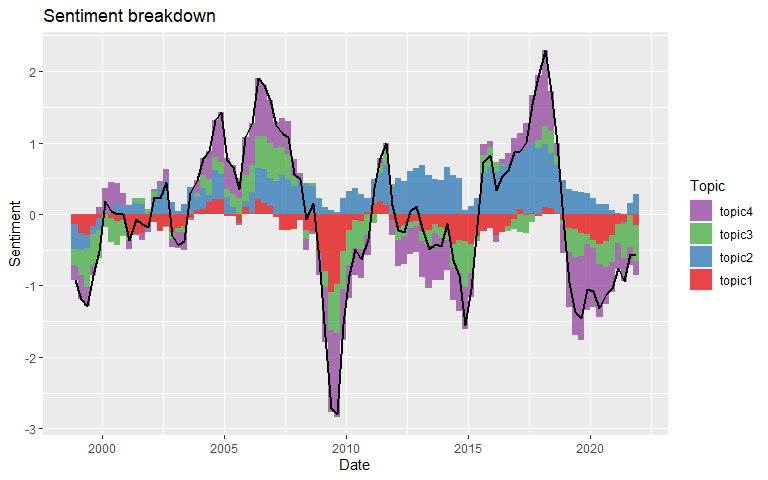
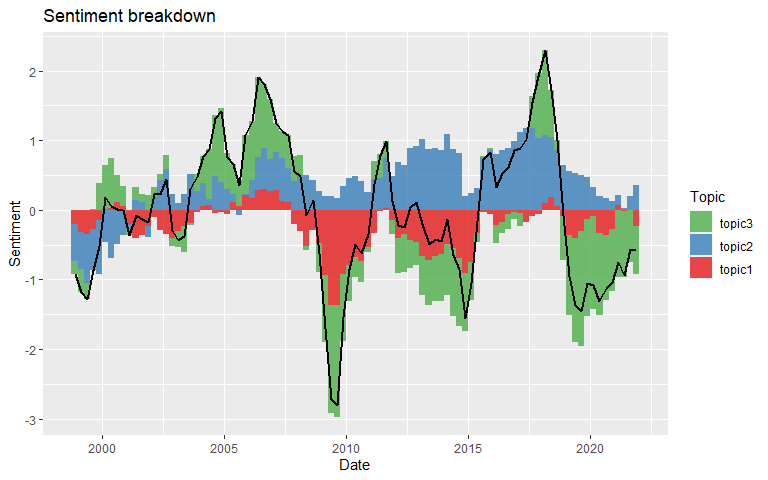
update README

diff --git a/README.md b/README.md
@@ -5,6 +5,8 @@
 
 <!-- badges: start -->
 
+[![CRAN
+Version](https://www.r-pkg.org/badges/version/sentopics)](https://CRAN.R-project.org/package=sentopics)
 [![R-CMD-check](https://github.com/odelmarcelle/sentopics/workflows/R-CMD-check/badge.svg)](https://github.com/odelmarcelle/sentopics/actions)
 [![Codecov test
 coverage](https://codecov.io/gh/odelmarcelle/sentopics/branch/master/graph/badge.svg?token=V6M82L4ZCX)](https://app.codecov.io/gh/odelmarcelle/sentopics)
@@ -12,11 +14,20 @@ coverage](https://codecov.io/gh/odelmarcelle/sentopics/branch/master/graph/badge
 
 ## Installation
 
-`sentopics` is currently available on GitHub.
+A stable version `sentopics` is available on CRAN:
+
+``` r
+install.packages("sentopics")
+```
+
+The latest development version can be installed from GitHub:
 
 ``` r
 devtools::install_github("odelmarcelle/sentopics") 
 ```
+
+The development version requires the appropriate tools to compile C++
+and Fortran source code.
 
 ## Basic usage
 
@@ -44,10 +55,10 @@ print(ECB_press_conferences_tokens, 2)
 # 
 # [ reached max_ndoc ... 3,858 more documents ]
 set.seed(123)
-lda <- LDA(ECB_press_conferences_tokens, K = 4)
+lda <- LDA(ECB_press_conferences_tokens, K = 3, alpha = .1)
 lda <- grow(lda, 100)
 lda
-# An LDA model with 4 topics. Currently grown by 100 Gibbs sampling iterations.
+# An LDA model with 3 topics. Currently grown by 100 Gibbs sampling iterations.
 # ------------------Useful methods------------------
 # grow      :Iterates the model using Gibbs sampling
 # topics    :Return the most important topic of each document
@@ -64,46 +75,35 @@ or to use some helper functions.
 # The document-topic distributions
 head(lda$theta) 
 #       topic
-# doc_id     topic1    topic2     topic3     topic4
-#    1_1 0.04761905 0.8095238 0.04761905 0.09523810
-#    1_2 0.03703704 0.8888889 0.03703704 0.03703704
-#    1_3 0.10000000 0.7000000 0.10000000 0.10000000
-#    1_4 0.42857143 0.4285714 0.07142857 0.07142857
-#    1_5 0.06666667 0.7333333 0.13333333 0.06666667
-#    1_6 0.11111111 0.6666667 0.11111111 0.11111111
+# doc_id      topic1    topic2      topic3
+#    1_1 0.005780347 0.9884393 0.005780347
+#    1_2 0.004291845 0.9914163 0.004291845
+#    1_3 0.015873016 0.9682540 0.015873016
+#    1_4 0.009708738 0.9805825 0.009708738
+#    1_5 0.008849558 0.9823009 0.008849558
+#    1_6 0.006993007 0.9160839 0.076923077
 # The document-topic in a 'long' format & optionally with meta-data
 head(melt(lda, include_docvars = FALSE))
-#     topic .id       prob
-# 1: topic1 1_1 0.04761905
-# 2: topic1 1_2 0.03703704
-# 3: topic1 1_3 0.10000000
-# 4: topic1 1_4 0.42857143
-# 5: topic1 1_5 0.06666667
-# 6: topic1 1_6 0.11111111
+#     topic .id        prob
+# 1: topic1 1_1 0.005780347
+# 2: topic1 1_2 0.004291845
+# 3: topic1 1_3 0.015873016
+# 4: topic1 1_4 0.009708738
+# 5: topic1 1_5 0.008849558
+# 6: topic1 1_6 0.006993007
 # The most probable words per topic
 topWords(lda, output = "matrix") 
-#       topic1            topic2              topic3           
-#  [1,] "price"           "fiscal"            "monetary"       
-#  [2,] "inflation"       "governing_council" "growth"         
-#  [3,] "development"     "country"           "rate"           
-#  [4,] "pressure"        "policy"            "loan"           
-#  [5,] "inflation_rate"  "euro_area"         "financial"      
-#  [6,] "annual"          "reform"            "interest_rate"  
-#  [7,] "increase"        "structural"        "credit"         
-#  [8,] "projection"      "growth"            "annual"         
-#  [9,] "price_stability" "meeting"           "monetary_policy"
-# [10,] "hicp"            "market"            "bank"           
-#       topic4             
-#  [1,] "euro_area"        
-#  [2,] "growth"           
-#  [3,] "economic"         
-#  [4,] "risk"             
-#  [5,] "quarter"          
-#  [6,] "real"             
-#  [7,] "economy"          
-#  [8,] "market"           
-#  [9,] "economic_activity"
-# [10,] "recovery"
+#       topic1        topic2              topic3           
+#  [1,] "growth"      "governing_council" "euro_area"      
+#  [2,] "annual"      "fiscal"            "economic"       
+#  [3,] "rate"        "euro_area"         "growth"         
+#  [4,] "price"       "country"           "price"          
+#  [5,] "loan"        "growth"            "risk"           
+#  [6,] "monetary"    "policy"            "inflation"      
+#  [7,] "inflation"   "reform"            "development"    
+#  [8,] "euro_area"   "structural"        "price_stability"
+#  [9,] "development" "market"            "quarter"        
+# [10,] "financial"   "bank"              "outlook"
 ```
 
 Two visualization are also implemented: `plot_topWords()` display the
@@ -116,9 +116,10 @@ plot(lda)
 
 <img src="man/figures/README-plot-lda-1.png" style="display: block; margin: auto;" />
 
-After properly incorporating date and sentiment metadata data (if they are
-not already present in the `tokens` input), time series functions allows
-to study the evolution of topic proportions and related sentiment.
+After properly incorporating date and sentiment metadata data (if they
+are not already present in the `tokens` input), time series functions
+allows to study the evolution of topic proportions and related
+sentiment.
 
 ``` r
 sentopics_date(lda)  |> head(2)
@@ -130,9 +131,9 @@ sentopics_sentiment(lda) |> head(2)
 # 1: 1_1 -0.01470588
 # 2: 1_2 -0.02500000
 proportion_topics(lda, period = "month") |> head(2)
-#               topic1    topic2    topic3    topic4
-# 1998-06-01 0.1233053 0.6463265 0.1139985 0.1163698
-# 1998-07-01 0.1262036 0.4980435 0.2047400 0.1710129
+#                topic1    topic2     topic3
+# 1998-06-01 0.04004786 0.9100265 0.04992568
+# 1998-07-01 0.17387955 0.7276814 0.09843903
 plot_sentiment_breakdown(lda, period = "quarter", rolling_window = 3)
 ```
 
@@ -145,6 +146,6 @@ introduction to the features of the package. Because the package is not
 yet on CRAN, you’ll have to build the vignettes locally.
 
 ``` r
-devtools::install_github("odelmarcelle/sentopics", build_vignettes = TRUE)
-vignette(package = "sentopics")
+vignette("Basic_usage", package = "sentopics")
+vignette("Topical_time_series", package = "sentopics")
 ```
